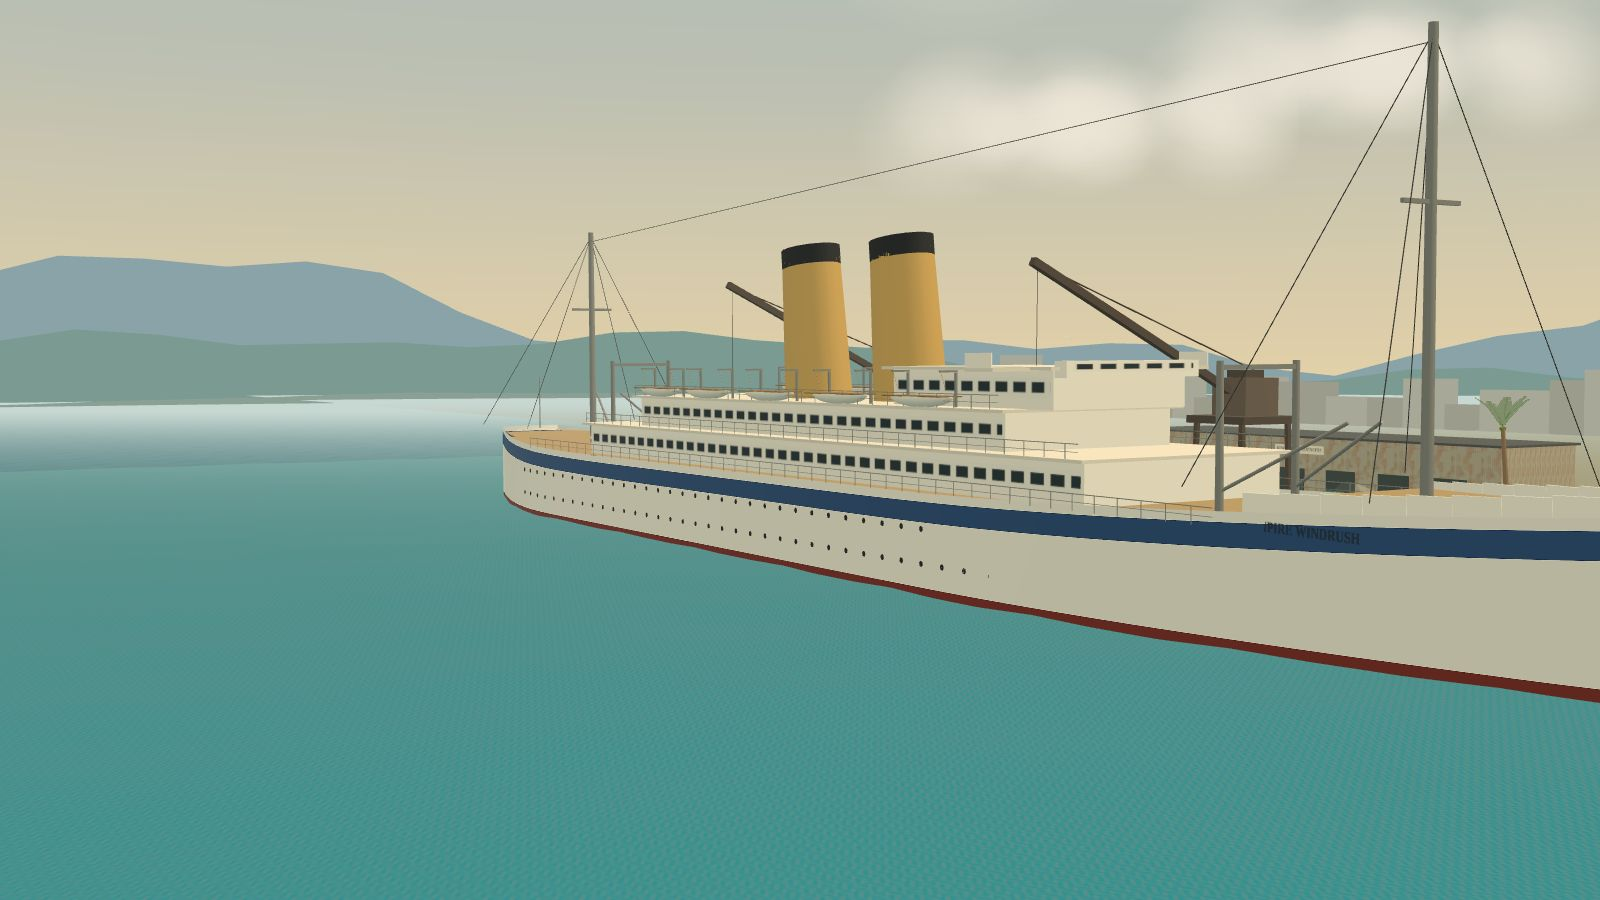
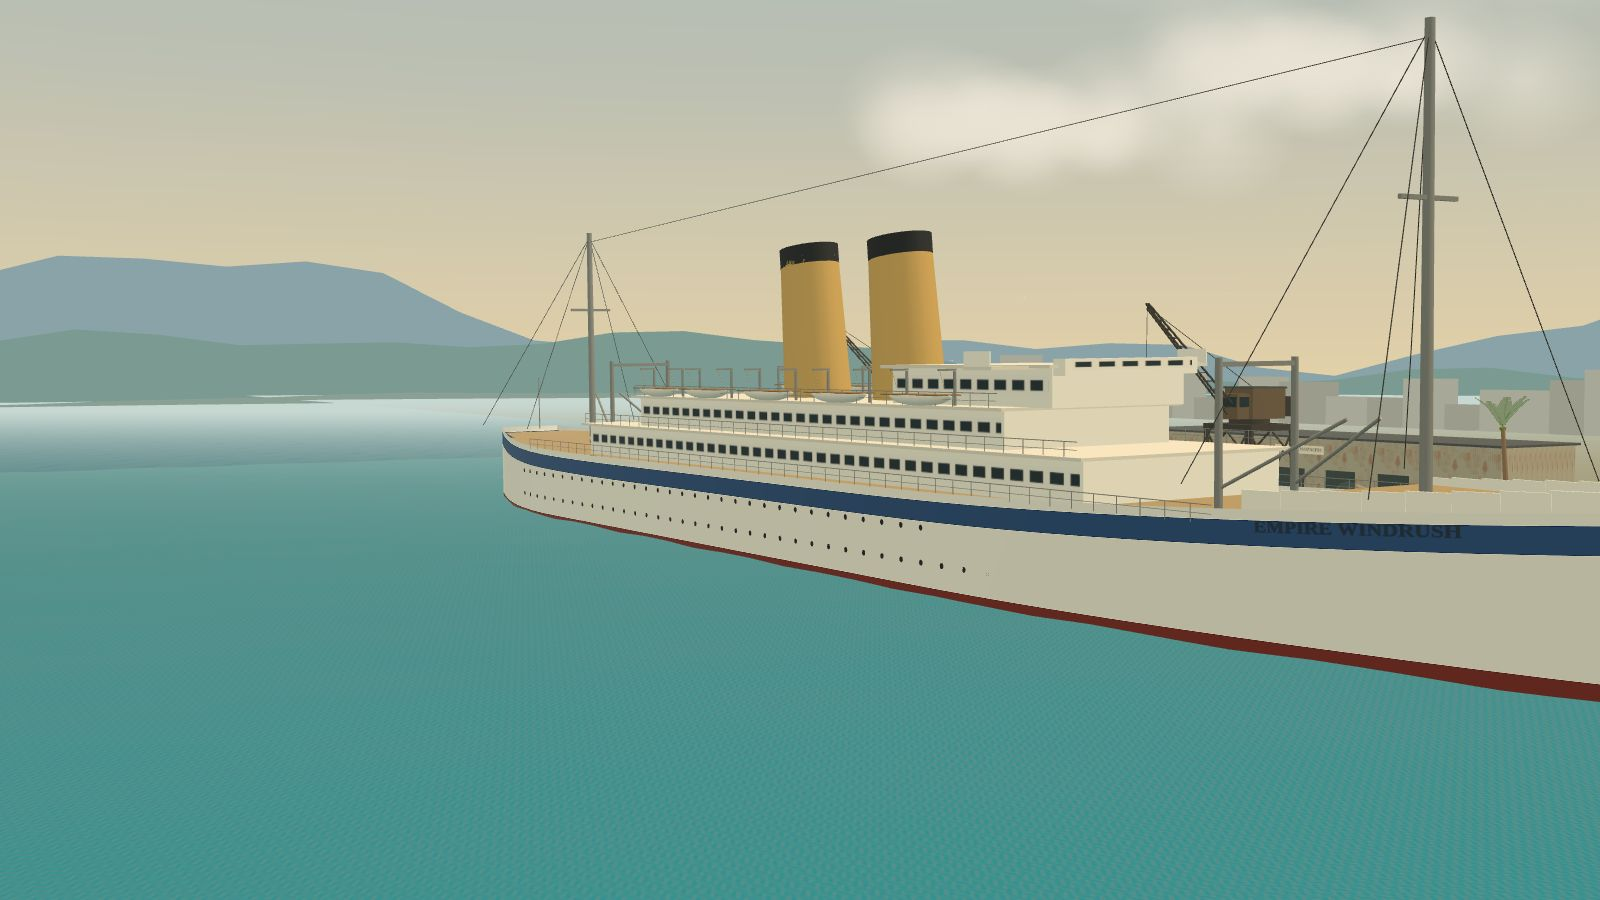
Windrush: seated neighbours without talk groups (the shared sit-talk head turn went to NaN); menu card re-rendered with the full bow name
Claude-Session: https://claude.ai/code/session_015MP9pWQNxVKn2taTgAuLiZ

diff --git a/games/windrush/src/places.js b/games/windrush/src/places.js
@@ -201,8 +201,8 @@ function yard(id) {
   // neighbours: a woman bringing a basket in on her head, an old woman resting under the breadfruit tree, dominoes on the piazza, children at play
   crowd(Q, "wr_kwoman48", 14.0, 14.0, Math.PI, { kind: "errand", from: [14.0, 14.0], to: [13.6, -3.2], walk: "CarryHeadWalk", idle: "CarryHeadIdle", wait: [5, 9] }, { held: "headload" });
   crowd(Q, "wr_kelder48", -11.5, 6.6, Math.PI / 2, { kind: "sit", seat: { top: 0.485, x: -11.5, z: 6.6, ry: Math.PI / 2 }, clips: ["SitIdle", "SitIdle2"] }, { raw: true });
-  crowd(Q, "wr_kman48", 8.35, 11.6, Math.PI / 2, { kind: "sit", seat: { top: 0.45, x: 8.35, z: 11.6, ry: Math.PI / 2 }, clips: ["SitIdle2", "SitTalk"], group: "dom" });
-  crowd(Q, "wr_tman48b", 9.65, 11.6, -Math.PI / 2, { kind: "sit", seat: { top: 0.45, x: 9.65, z: 11.6, ry: -Math.PI / 2 }, clips: ["SitIdle", "SitTalk"], group: "dom" });
+  crowd(Q, "wr_kman48", 8.35, 11.6, Math.PI / 2, { kind: "sit", seat: { top: 0.45, x: 8.35, z: 11.6, ry: Math.PI / 2 }, clips: ["SitIdle2", "SitIdle"] });
+  crowd(Q, "wr_tman48b", 9.65, 11.6, -Math.PI / 2, { kind: "sit", seat: { top: 0.45, x: 9.65, z: 11.6, ry: -Math.PI / 2 }, clips: ["SitIdle", "SitIdle2"] });
   crowd(Q, "wr_kboy48", -4, 11, 0, { kind: "play", area: [-7.5, 7.5, 0.5, 12.5], run: "Run", joy: ["Cheer", "Clap"] }, { kid: true });
   crowd(Q, "wr_kgirl48", -2, 12, 0, { kind: "play", area: [-7.5, 7.5, 0.5, 12.5], run: "Run", joy: ["Cheer", "Clap"] }, { kid: true });
   Q.ambient[Q.ambient.length - 1].behaviour.chase = Q.ambient[Q.ambient.length - 2].id;
@@ -792,8 +792,8 @@ function centre18() {
   person(Q, "asha", "asha18", 2.2, -3.4, 0, { kind: "sit", seat: { top: 0.455, x: 2.2, z: -3.4, ry: 0 }, clips: ["SitIdle2", "SitIdle"] }, { raw: true });
   person(Q, "iris", "iris79", 1.4, -1.6, Math.PI, { kind: "sit", seat: { top: 0.455, x: 1.4, z: -1.6, ry: Math.PI }, clips: ["SitIdle", "SitIdle2"] }, { raw: true });
   person(Q, "anita", "anita18", 3.3, -0.7, face(3.3, -0.7, 1.4, -1.6), { kind: "watch", at: [1.6, -2.4], idles: ["Idle"], react: ["Nod", "Agree"], every: [4, 8] });
-  crowd(Q, "wr_elder18", -7.1, 3.8, Math.PI / 2, { kind: "sit", seat: { top: 0.455, x: -7.1, z: 3.8, ry: Math.PI / 2 }, clips: ["SitIdle", "SitTalk"], group: "w1" });
-  crowd(Q, "wr_man18", -7.1, 3.2, Math.PI / 2, { kind: "sit", seat: { top: 0.455, x: -7.1, z: 3.2, ry: Math.PI / 2 }, clips: ["SitIdle2", "SitTalk"], group: "w1" });
+  crowd(Q, "wr_elder18", -7.1, 3.8, Math.PI / 2, { kind: "sit", seat: { top: 0.455, x: -7.1, z: 3.8, ry: Math.PI / 2 }, clips: ["SitIdle", "SitIdle2"] });
+  crowd(Q, "wr_man18", -7.1, 3.2, Math.PI / 2, { kind: "sit", seat: { top: 0.455, x: -7.1, z: 3.2, ry: Math.PI / 2 }, clips: ["SitIdle2", "SitIdle"] });
   crowd(Q, "wr_woman18", -5.2, 6.45, Math.PI, { kind: "work", clips: ["Idle", "LookAround", "Nod"], work: [4, 8], face: [-5.2, 3] });
   crowd(Q, "wr_wman18", 4.8, 4.2, face(4.8, 4.2, 5.4, 5.6), { kind: "chat", group: "t1", at: [5.2, 3.8] });
   crowd(Q, "wr_girl18", 5.8, 3.6, 0, { kind: "chat", group: "t1" }, { kid: true });
